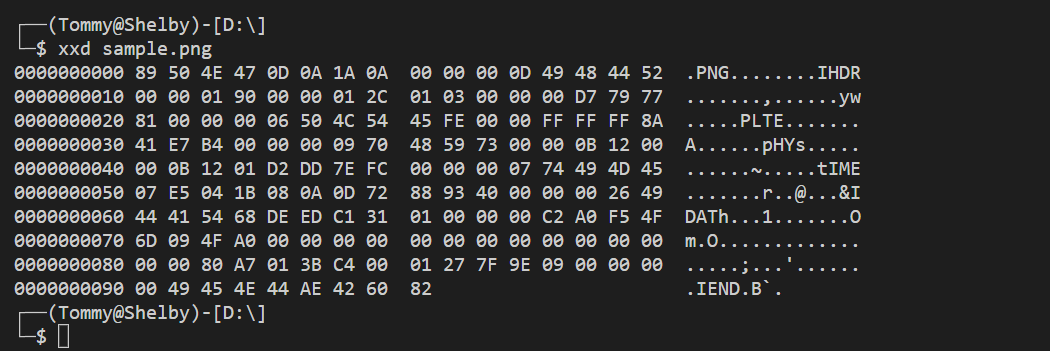
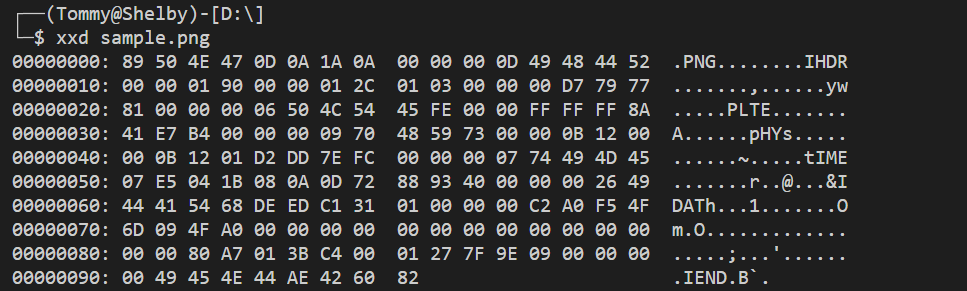
Update xxd

diff --git a/Shell.py b/Shell.py
@@ -122,7 +122,7 @@ class Shell(cmd.Cmd):
 
     for i in range(0, len(raw_data), 16):
       line = raw_data[i: i + 16]
-      index = "%010X" % i 
+      index = "%08X:" % i 
       ascii = ""
       hex_str = ""
       print(index, end=" ")
